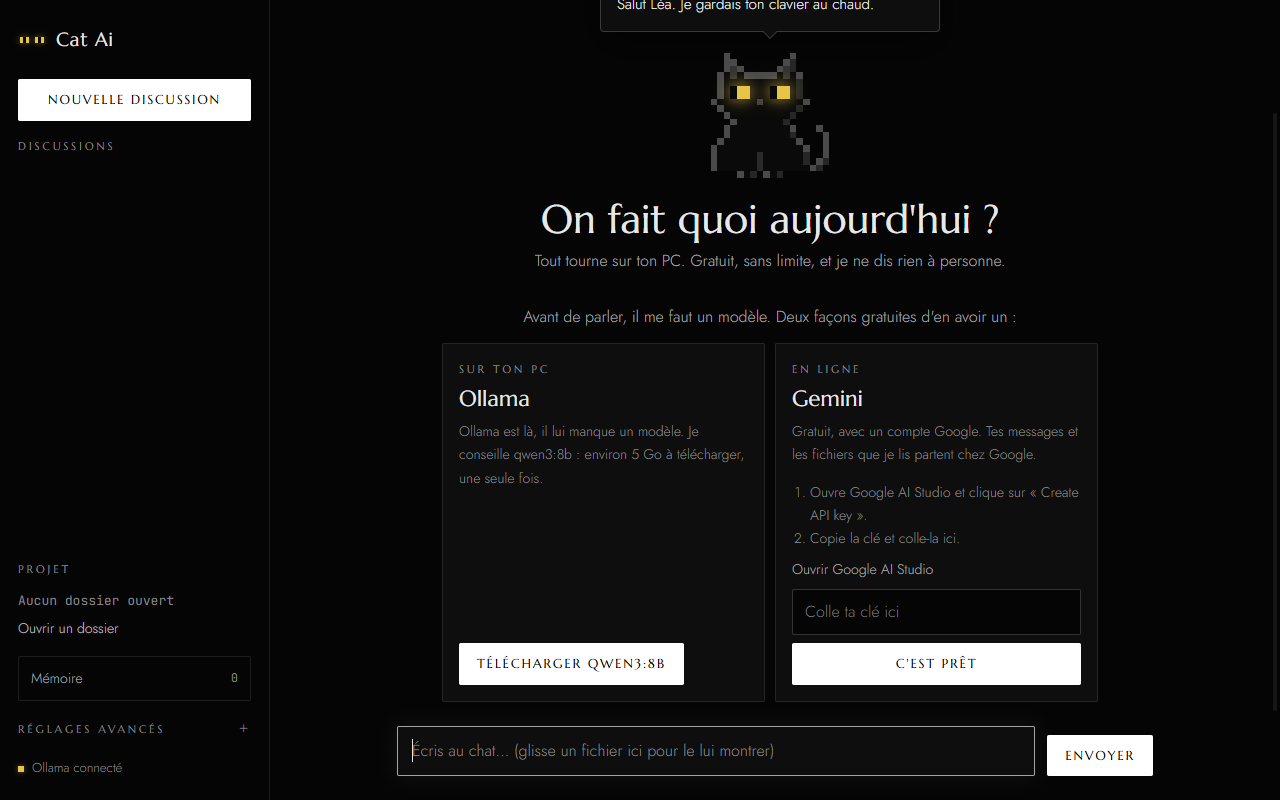
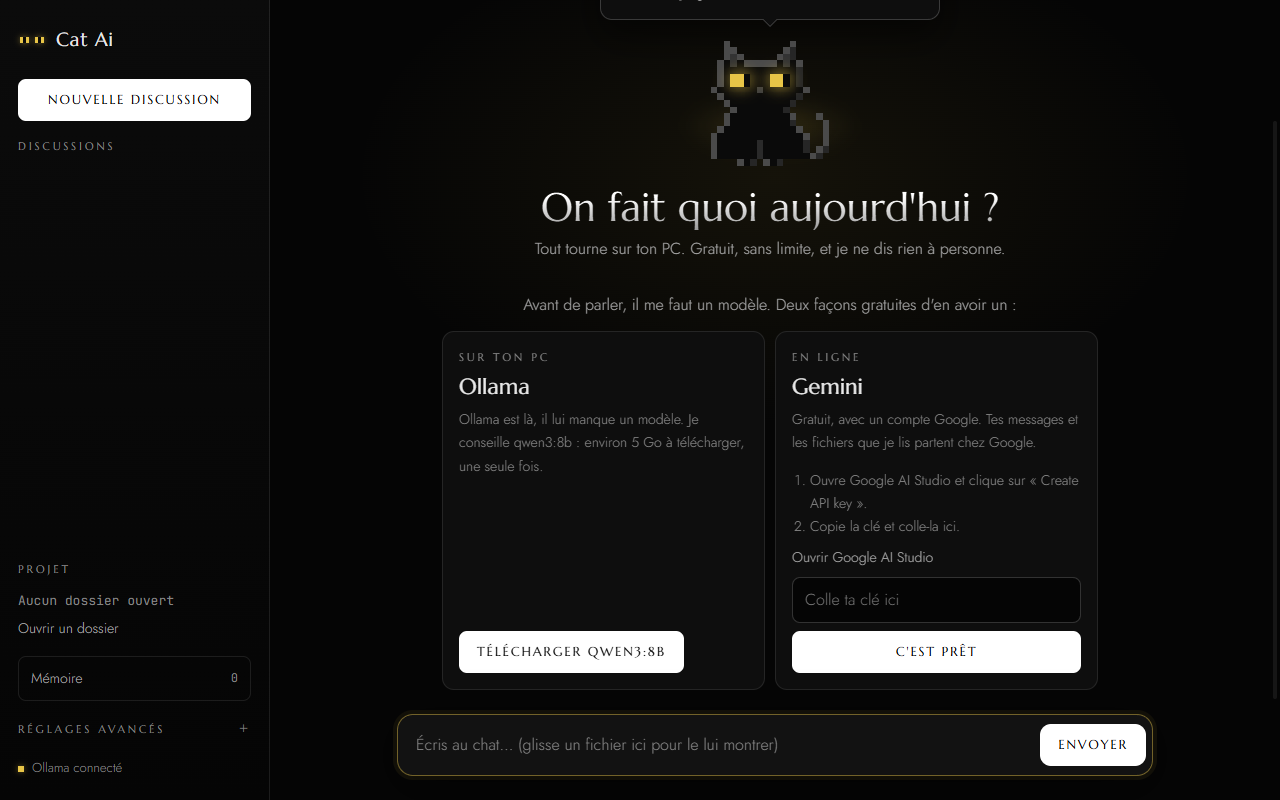
Glow up de l'interface
Même DA (noir, blanc, yeux jaunes), en plus doux et plus vivant : lueur derrière le chat,
titre en dégradé, apparition douce, suggestions arrondies qui se soulèvent avec une flèche,
barre de saisie unique qui s'allume en jaune, fenêtres floutées derrière, discussions
surlignées, bulles arrondies. Mouvements coupés si le système demande moins d'animations.
Captures du README refaites.

diff --git a/style.css b/style.css
@@ -474,3 +474,56 @@ select {
     * { animation: none !important; transition: none !important; }
 }
 #demarrage-gemini-actions { flex-direction: column; align-items: stretch; gap: 8px; }
+
+/* ==========================================================
+   Glow up (v1.0) : même DA noir, blanc et yeux jaunes, en plus doux et plus vivant.
+   Ces règles passent après les autres et les ajustent.
+   ========================================================== */
+:root { --rayon: 12px; --rayon-petit: 8px; }
+
+/* Une lueur derrière le chat, couleur de ses yeux */
+.principal { background: radial-gradient(ellipse 60% 45% at 50% 22%, rgba(232, 197, 71, .07), transparent 70%), var(--bg); }
+.cote { background: linear-gradient(180deg, #0b0b0b, var(--bg)); }
+.mascotte { position: relative; }
+.mascotte::before {
+    content: ""; position: absolute; left: 50%; bottom: 10px; width: 180px; height: 60px; transform: translateX(-50%);
+    background: radial-gradient(ellipse, rgba(232, 197, 71, .16), transparent 70%); filter: blur(8px); pointer-events: none;
+}
+
+/* Accueil : apparition douce, titre en dégradé */
+.accueil { animation: arrivee .6s ease-out both; }
+@keyframes arrivee { from { opacity: 0; transform: translateY(10px); } to { opacity: 1; transform: none; } }
+.accueil__titre { background: linear-gradient(180deg, #fff 30%, #9a9a9a); -webkit-background-clip: text; background-clip: text; color: transparent; }
+
+/* Suggestions et cartes : arrondies, qui se soulèvent au survol */
+.suggestions button, .demarrage__carte { border-radius: var(--rayon); }
+.suggestions button { position: relative; transition: color .2s ease, border-color .2s ease, box-shadow .2s ease, transform .2s ease; }
+.suggestions button::after { content: "→"; position: absolute; right: 16px; opacity: 0; transform: translateX(-4px); transition: opacity .2s ease, transform .2s ease; }
+.suggestions button:hover { transform: translateY(-2px); border-color: rgba(232, 197, 71, .35); box-shadow: 0 8px 30px rgba(232, 197, 71, .08); }
+.suggestions button:hover::after { opacity: 1; transform: none; color: var(--oeil); }
+
+/* Zone de saisie : une seule barre arrondie, qui s'allume en jaune quand on écrit */
+.saisie__ligne { align-items: center; padding: 6px 6px 6px 4px; background: rgba(20, 20, 20, .85); border: 1px solid var(--ligne-2); border-radius: 16px; backdrop-filter: blur(10px); transition: border-color .2s ease, box-shadow .2s ease; }
+.saisie__ligne:focus-within { border-color: rgba(232, 197, 71, .45); box-shadow: 0 0 0 4px rgba(232, 197, 71, .06), 0 10px 40px rgba(0, 0, 0, .5); }
+.saisie textarea, .saisie textarea:focus { background: transparent; border: 0; box-shadow: none; }
+.saisie__ligne .bouton { border-radius: 11px; }
+
+/* Boutons, champs et fenêtres plus doux */
+.bouton, .lien--bloc, .interrupteur, select, .demarrage input, #memory-input, #prenom-input { border-radius: var(--rayon-petit); }
+.fenetre { backdrop-filter: blur(6px); }
+.fenetre__boite { border-radius: 16px; box-shadow: 0 30px 80px rgba(0, 0, 0, .6); animation: arrivee .25s ease-out both; }
+
+/* Discussions : la discussion ouverte a un petit fond */
+.discussions li { border-radius: var(--rayon-petit); transition: background .15s ease, color .15s ease; }
+.discussions li:hover { background: var(--surface); }
+.discussions li.is-active { background: var(--surface-2); }
+
+/* Messages : la bulle de l'utilisateur arrondie */
+.msg { animation: arrivee .3s ease-out both; }
+.msg.user .bulle-msg { border-radius: 16px 16px 4px 16px; }
+.bulle { border-radius: var(--rayon); }
+
+@media (prefers-reduced-motion: reduce) {
+    .accueil, .msg, .fenetre__boite { animation: none; }
+    .suggestions button:hover { transform: none; }
+}
